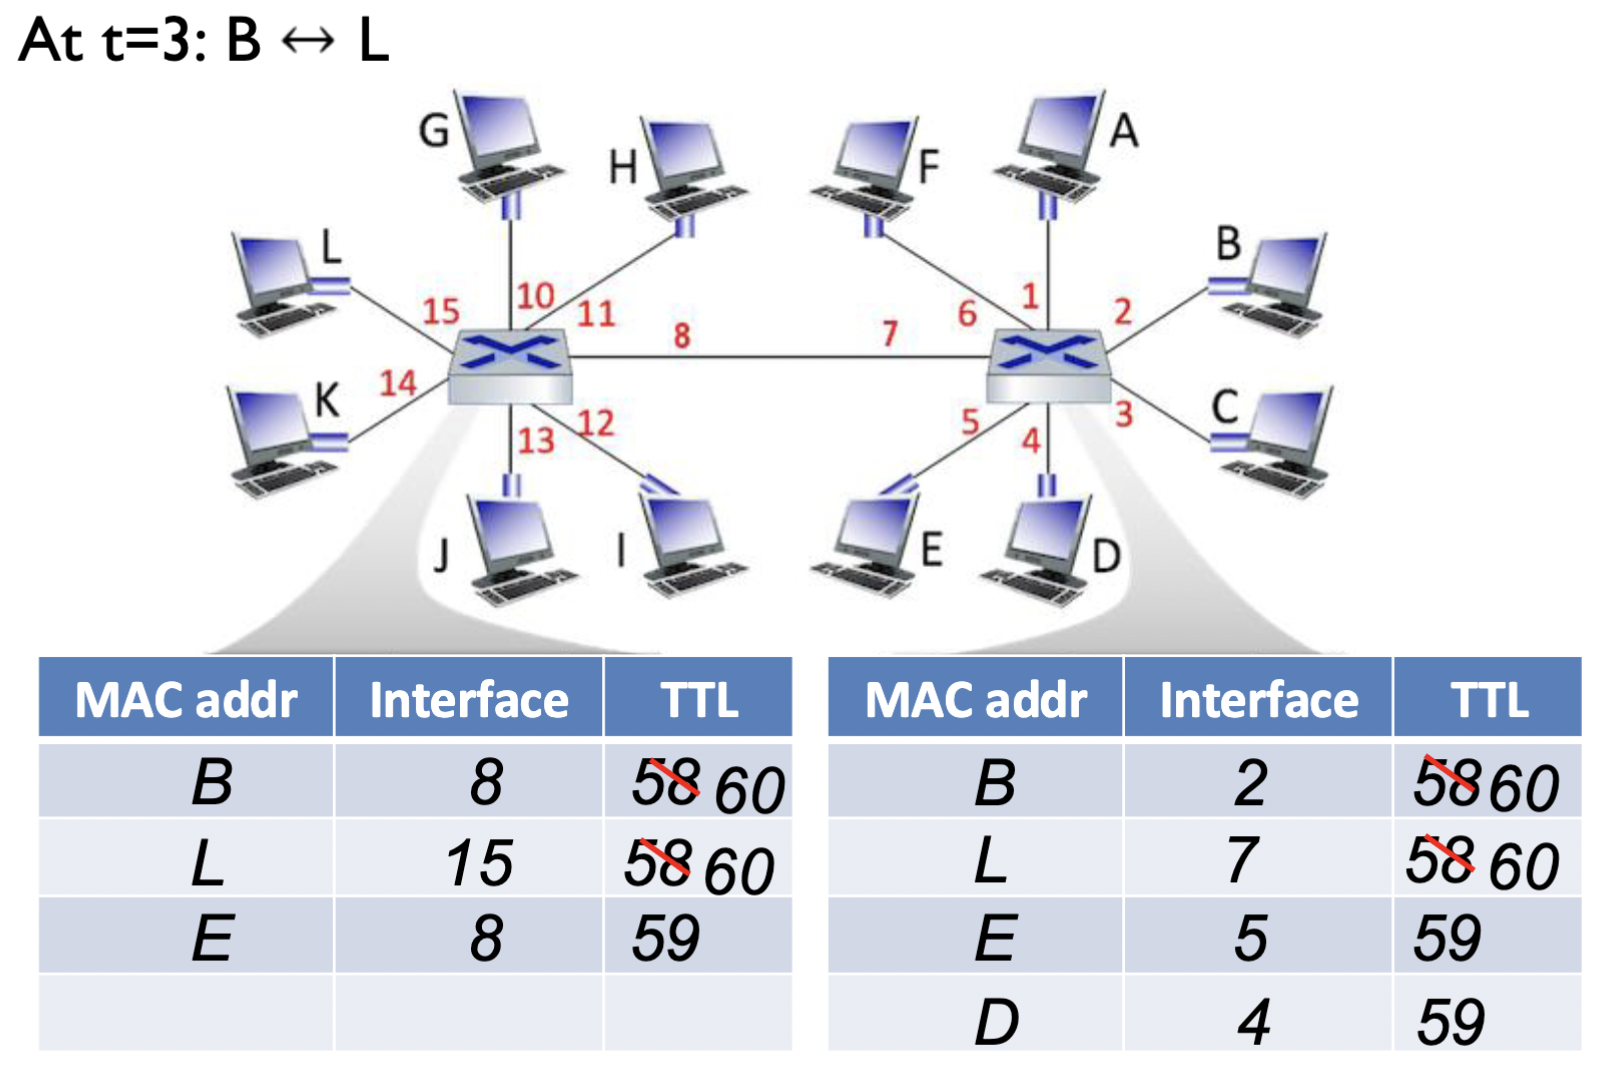
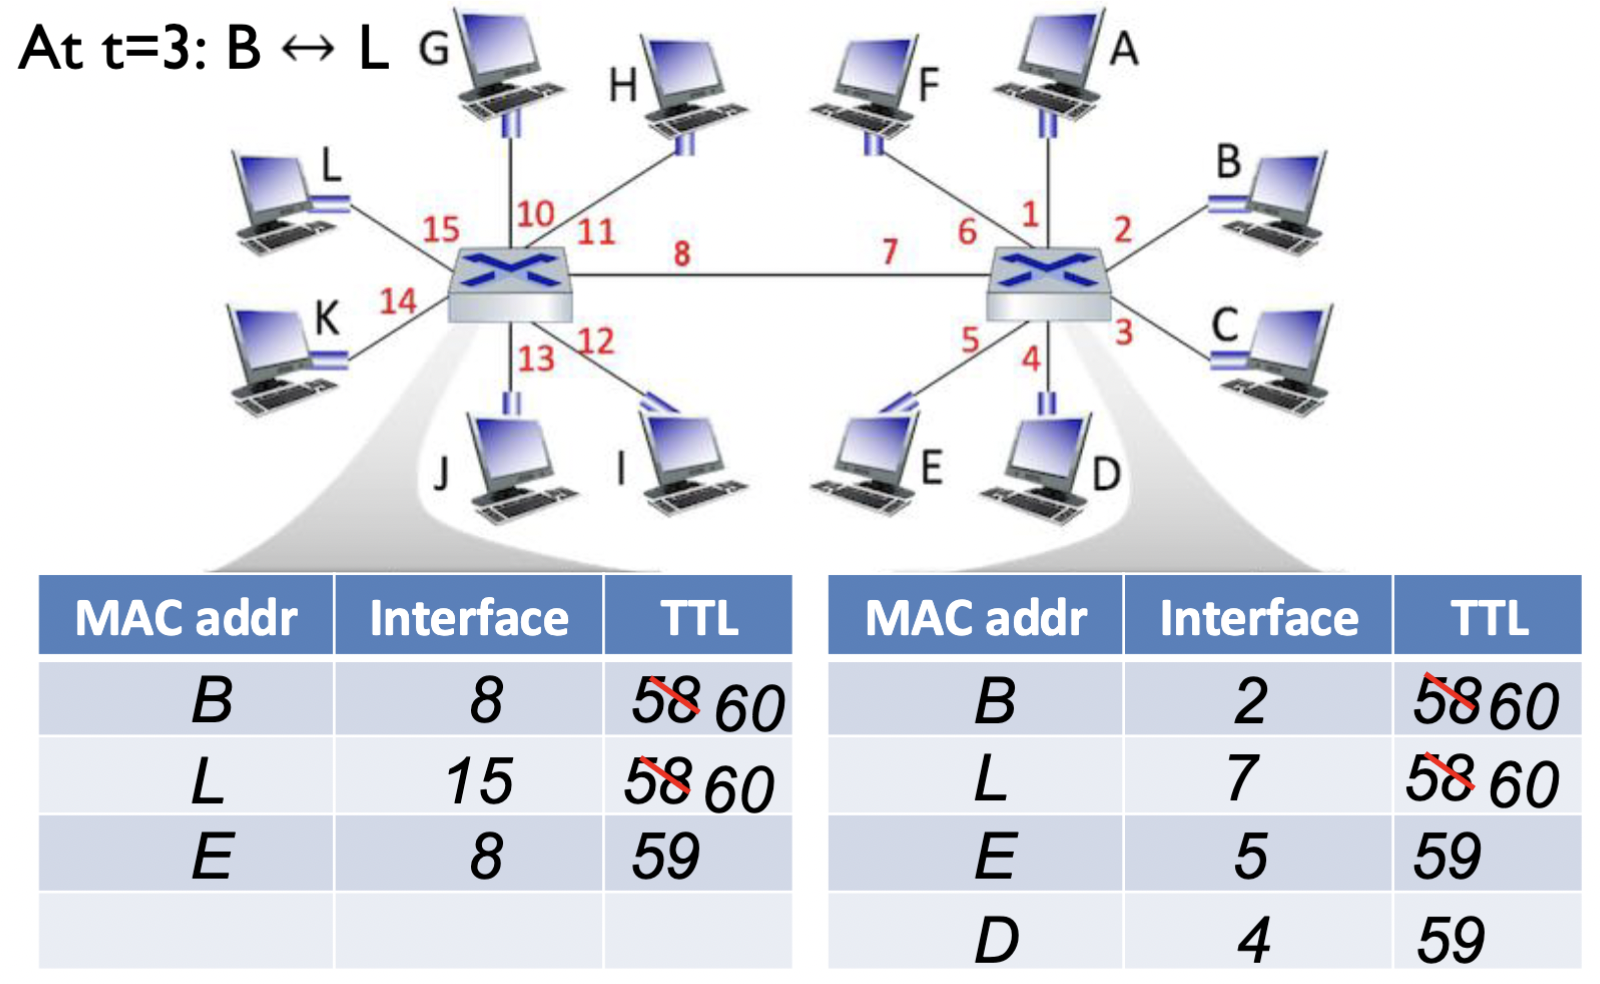
squzeed IP vs MAC address table in

Changed region(s): [[0.0, 0.0, 1.0, 0.9756], [0.75, 0.9451, 0.8125, 0.9756]]

diff --git a/main.tex b/main.tex
@@ -358,12 +358,12 @@
       {Ethernet\\Start-Of-Frame\\Delimiter} (14,3.0);
       \draw[<->] (14,3.0) -- node[fill=white,inner sep=2pt,align=center]
       {First Octet following\\Start-Of-Frame} (22,3.0);
-      \node[anchor=east] at (13.3,4.85) {Message Timestamp Point};
-      \draw[->] (13.35,4.85) -- (14,4.85);
-      \draw[gray!70] (14,5.25) -- (14,2.0);
+      \node[anchor=east] at (13.3,-1.55) {Message Timestamp Point};
+      \draw[->] (13.35,-1.55) -- (14,-1.55);
+      \draw[gray!70] (14,-.8) -- (14,-1.95);
       \node[fill=white,align=center,inner sep=1pt] at (1.5,-.85) {bit\\time};
       \draw[red,line width=.65pt] (-.95,-.52) rectangle (6,2.05);
-      \draw[red,<->,line width=1.4pt] (8,-1.55) -- (9,-1.55);
+      % < move the "Message Timestamp Point down here >
       \draw[red,->,line width=1.4pt] (18,-1.55) -- (15,-1.55);
       \draw[red,->,line width=1.4pt] (20,-1.55) -- (23.5,-1.55);
       \node[red,font=\bfseries\large] at (19,-1.55) {$\cdots$};
@@ -888,7 +888,8 @@ Possible collision from propagation delay - node cannot instantly detect if anot
 \textbf{Carrier Sense Multiple Access/Collision Detection}
 If collision detected, abort transmission and retransmit after random delay (backoff algorithm)
 
-\textbf{Backoff Algorithm:} after \(m\)th collision, randomly select waiting time \(K\) before retransmitting, from set $\{0,1,...,2^m-1\}$ which doubles after every collision $\rightarrow$ retransmission probability \(p = 1/2^m\) decreases. This binary exponential backoff adapts to network load: more collisions $\rightarrow$ heavier traffic, longer back-off interval.
+\textbf{Backoff Algorithm:} after \(m\)th collision, randomly select waiting time \(K\) before retransmitting, from set $\{0,1,...,2^m-1\}$ which doubles after every collision $\rightarrow$ retransmission probability \(p = 1/2^m\) decreases. This binary exponential backoff adapts to network load: more collisions $\rightarrow$ heavier traffic, longer back-off interval.\\
+Becomes TCP's problem past 16 collisions.
 
 \begin{compactfigure}
 \includegraphics[width=0.75\linewidth]{link/csma.png}
@@ -928,16 +929,16 @@ Nodes take turns. Achieve high single-node throughput of random access when load
 of channel partitioning when load is heavy. Perfectly fair. No collisions or wasted slots, but high overhead. 
 
 \textbf{Polling}
-Master node polls each node in a round-robin fashion.
+Master node polls each node w/ round-robin
 \begin{itemize}
-\item Master informs node 1, it can transmit up to some $N_{max}$.
+\item Node 1 can transmit up to $N_{max}$ frames.
 \item After node 1 transmits, master node tells node 2 it (node 2) can transmit up to $N_{max}$
-\item Cons: \textit{centralised} - master node as single point of failure.
+\item Cons: \textit{centralised} - master is single point of failure.
 \end{itemize}
 
 \textbf{Token Passing}
 Special frame, \textbf{token}, is passed from one node to
-next. When node receives token, hold onto the token only if some frames to transmit. Otherwise, forward token
+next. Hold onto the token only if some frames to transmit. Otherwise, forward token
 to next node. Cons: Token loss can disrupt the system, and a node failure can break the ring. \textit{Decentralised}.
 
 \subsection{Channel Partitioning Protocols}
@@ -946,7 +947,7 @@ Divide shared broadcast channel into smaller, dedicated sub-channels and allocat
 \begin{enumerate}
 \item Channel access is divided into repeating rounds, or time frames.
 \item Assign each node a fixed-length time slot for transmitting one data frame.
-\item Unused nodes leave their slots idle (reduced efficiency).
+\item Unused nodes leave their slots idle (lost efficiency).
 \item E.g., for six nodes, nodes 1, 3, and 4 transmit while slots 2, 5, and 6 remain idle.
 \item Max throughput: $\tfrac{R}{N}$
 \end{enumerate}
@@ -956,7 +957,6 @@ Divide shared broadcast channel into smaller, dedicated sub-channels and allocat
 \item Channel spectrum is divided into frequency bands.
 \item Each node is assigned a fixed frequency band.
 \item Unused transmission time in frequency bands go idle.
-\item E.g.: 6 nodes, 1, 3, 4 have frames, frequency bands 2, 5, 6 are idle.
 \item Max throughput: $\tfrac{R}{N}$
 \end{enumerate}
 
@@ -999,8 +999,8 @@ to sending NIC. Uses CSMA/CD with exponential backoff.
 \textbf{Source \& Dest. MAC Addr}
 If NIC receives a frame with matching destination MAC address, or with broadcast address, it passes data in the frame to network layer protocol. Otherwise, NIC discards frame.
 
-\textbf{Data}
-Max size: 1500 bytes (MTU). Min size: 46 bytes
+\textbf{Data} Max size: 1500 bytes (MTU). Min size: 46 bytes\\
+$\rightarrow$ total minimum frame size 64 bytes
 
 \textbf{Type \& CRC}
 Type identifies the enclosed upper-layer protocol (e.g. IP or ARP). CRC is
@@ -1010,19 +1010,20 @@ checked by the receiver; a corrupted frame is dropped. Recovery is performed by 
 7 bytes of pattern 10101010 (AAHex) + 1 byte of pattern 10101011 (ABHex) (i.e. `start of frame'). Used to synchronize receiver and sender clock rates. Used to tell receiver the "width" of a bit.
 \par\vspace{2pt}\noindent\preamblediagram\par\vspace{2pt}
 
+\vspace{-0.3em}
 Interconnect the nodes to make a shared link:
 \begin{enumerate}
 \item \textbf{Bus} topology is a broadcast LAN. All transmitted frames received by all adapters connected to the bus (so all can collide). Slow, hard to troubleshoot.
 \item \textbf{Star / hub} (physical layer). When a bit arrives from one interface, hub re-creates the bit, boosts energy strength, and transmits the bit onto all other interfaces. Modular, but slow esp for large networks.
-\item \textbf{Star / switch} connect directly to nodes. Layer-2 device. Works on frames rather than individual bits. A bona-fide store-and-forward packet switch. No collisions
+\item \textbf{Star / switch} connect directly to nodes. Layer-2 device. Works frames-wise rather than bits-wise. A store-and-forward packet switch. No collisions
 \end{enumerate}
 \textbf{Hub vs. switch vs. router:} hub repeats bits to every port (one
 collision domain); switch forwards frames using MAC addresses; router routes
-IP datagrams between subnets and rebuilds the link-layer frame at each hop.
+IP datagrams b/w subnets and rebuilds the link-layer frame at each hop.
 
 \textbf{Switch}
 Transparent (hosts are unaware of switches) and plug-and-play (self-learning).
-A-to-A’ and B-to-B’ can transmit simultaneously, without collisions, but cannot send from A-to-A’ and B-to-A’ simultaneously.
+A-to-A’ and B-to-B’ $\rightarrow$ no collision; A-to-A’ and B-to-A’ $\rightarrow$ collision.
 Switch table format: \texttt{< MAC address of host, interface to reach host, TTL >}.
 
 \textbf{Forwarding rule:} first learn/update \texttt{< source MAC, incoming
@@ -1040,7 +1041,7 @@ Every adapter (NIC) has a MAC address (aka physical or LAN address). Burned in N
 \subsection{IP vs. MAC Address}
 \begingroup
 \renewcommand{\arraystretch}{1.05}
-\begin{tabular}{@{}p{1.15cm}p{2.3cm}p{2.3cm}@{}}
+\begin{tabular}{@{}p{1cm}p{2.5cm}p{2.5cm}@{}}
 \toprule
 & \textbf{IP address} & \textbf{MAC address} \\
 \midrule
